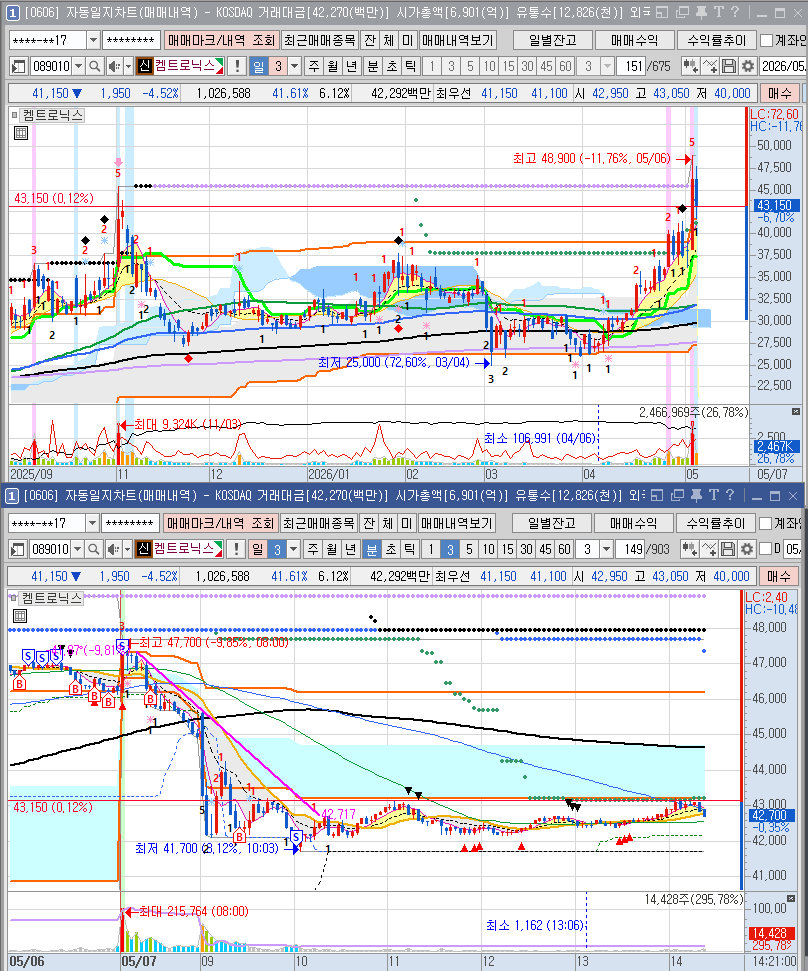
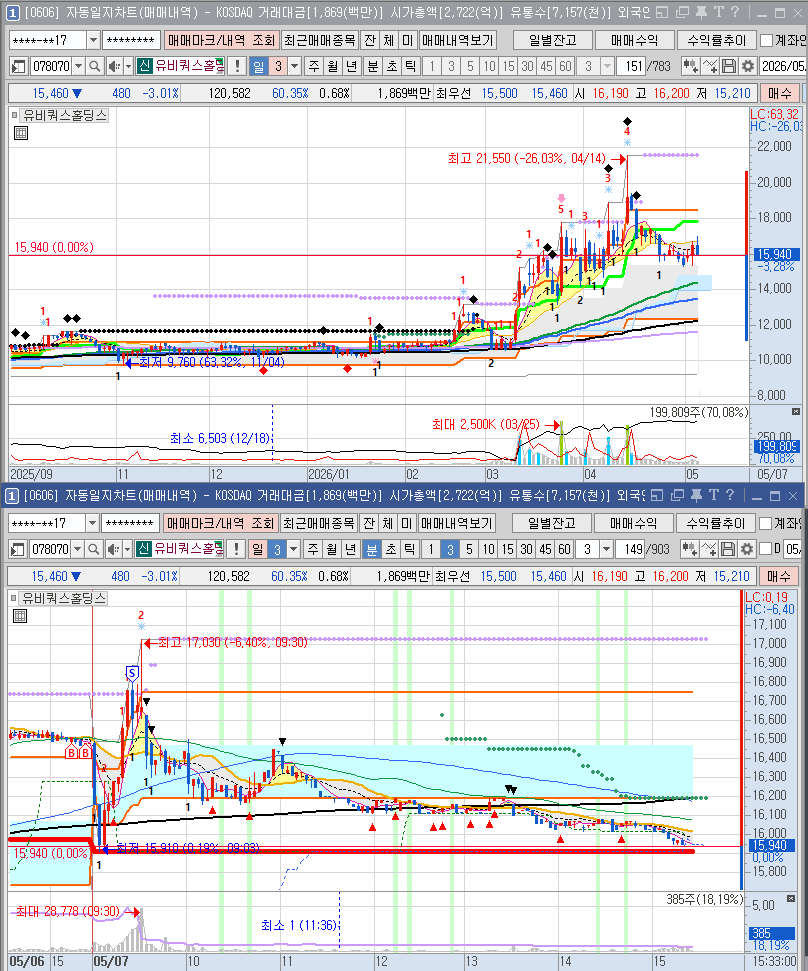
매매일지

diff --git a/2026년/202605/readme.md b/2026년/202605/readme.md
@@ -134,7 +134,11 @@
 ---
 ### 2026.05.07
 
-![](./img/20260507_01.png)
+![두산에너빌리티](./img/20260507_01.png)
+
+**두산에너빌리티** 📈 +0.38% 익절
+- 시초베팅, 거래량 및 거래대금 급증
+---
 ![](./img/20260507_02.png)
 ![](./img/20260507_03.png)
 ![](./img/20260507_04.png)
